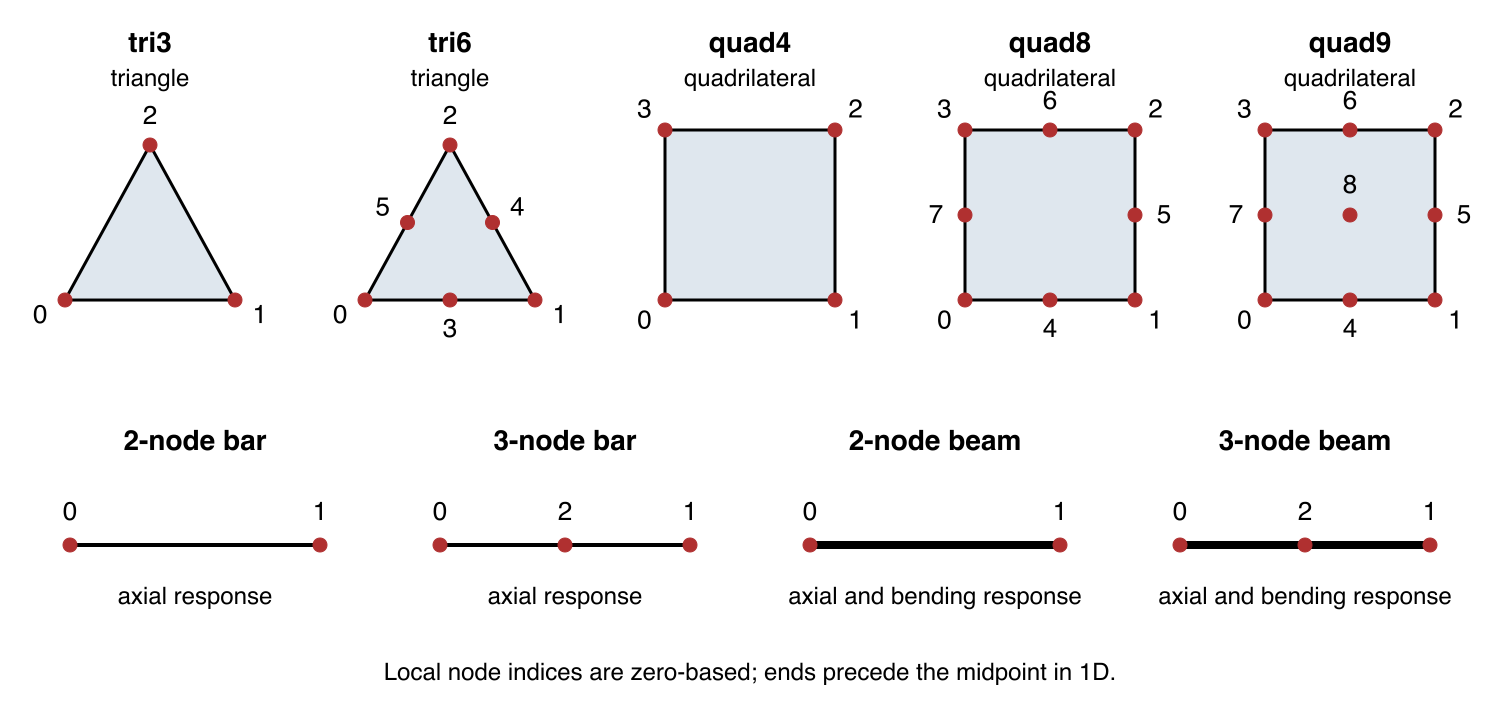
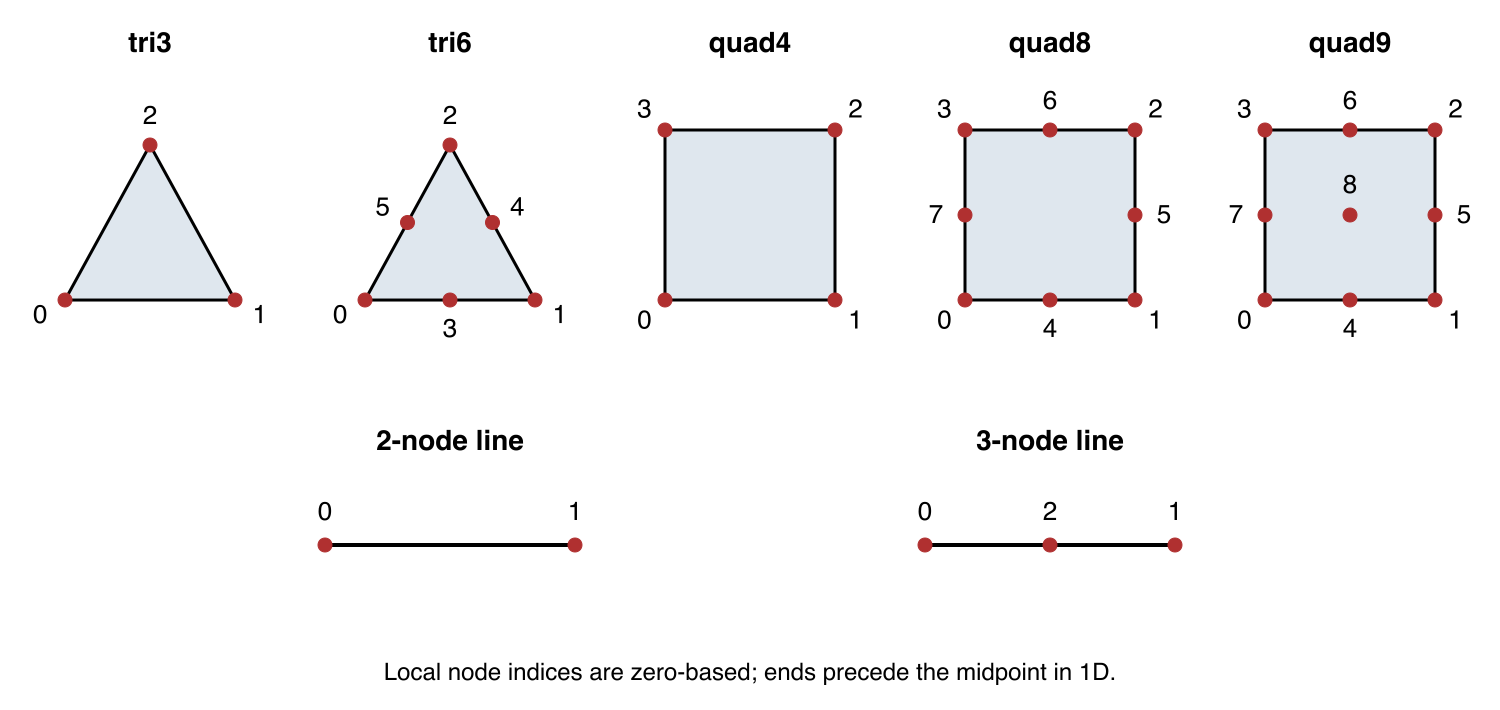
Owner review 10: show line discretization once in the element diagram

diff --git a/docs/fem/piles.md b/docs/fem/piles.md
@@ -105,9 +105,10 @@ On a quadratic soil mesh (tri6, quad8, quad9) the edge a beam element lies on ca
 two corners, and the beam element stands on all three. It then has 9 DOFs — $u_x$, $u_y$ and $\theta$ at every one of
 its nodes — and its local stiffness is 9×9.
 
-Compare the beam's end nodes with its extra midpoint node in the three-node form below.
+The 2- and 3-node line elements below carry two translations and a rotation at each node when
+used as pile beams. Compare the end nodes with the extra midpoint node in the three-node form.
 
-![Soil, bar and beam elements with local node indices](images/all_element_nodes.png){width=1500px}
+![Soil and line elements with local node indices](images/all_element_nodes.png){width=1500px}
 
 That node ties the pile to the soil in the middle of each element. The soil's displacement along a
 quadratic edge is a parabola through all three nodes, so a beam attached at the corners alone leaves the edge free to

diff --git a/docs/fem/reinforcement.md b/docs/fem/reinforcement.md
@@ -31,9 +31,10 @@ Each bonded truss element stands on every node of the 2D element edge it lies on
 end nodes and the element is a 2-node bar. On a quadratic mesh (tri6, quad8, quad9) the edge also carries a midside
 node, and the truss element is a 3-node bar carrying that node too.
 
-The three-node bar below places node 2 between its two end nodes.
+The 2- and 3-node line elements below carry two translations at each node when used as
+reinforcement bars, with axial stiffness only. The three-node form places node 2 between its ends.
 
-![Soil, bar and beam elements with local node indices](images/all_element_nodes.png){width=1500px}
+![Soil and line elements with local node indices](images/all_element_nodes.png){width=1500px}
 
 The midside node ties the bar to the soil in the middle of the edge. The soil's displacement along a quadratic
 edge is a parabola through all three nodes, so a bar attached at the corners alone leaves the edge free to bow away

diff --git a/docs/fem/overview.md b/docs/fem/overview.md
@@ -184,9 +184,9 @@ A typical slope mesh is shown below.
 ![sample_mesh.png](images/sample_mesh.png)
 
 XSLOPE supports linear and quadratic triangles and quadrilaterals. The red markers below
-show the nodes added between corners in the quadratic forms, alongside the embedded bars and beams.
+show the nodes added between corners in the quadratic forms, alongside the 2- and 3-node line elements.
 
-![Soil, bar and beam elements with local node indices](images/all_element_nodes.png){width=1500px}
+![Soil and line elements with local node indices](images/all_element_nodes.png){width=1500px}
 
 [Mesh Generation](mesh.md) covers mesh construction and
 [element choice for FEM analyses](mesh.md#element-choice-for-fem-analyses).

diff --git a/docs/fem/mesh.md b/docs/fem/mesh.md
@@ -80,7 +80,7 @@ matching entry of `element_types` says how many of the nine slots are used.
 
 Use the local indices below to read the node order in the mesh arrays.
 
-![Soil, bar and beam elements with local node indices](images/all_element_nodes.png){width=1500px}
+![Soil and line elements with local node indices](images/all_element_nodes.png){width=1500px}
 
 Quadratic types are made by adding nodes to the linear type in the last column; see
 [Quadratic elements](#quadratic-elements). Serendipity (`quad8`) uses corner and edge
